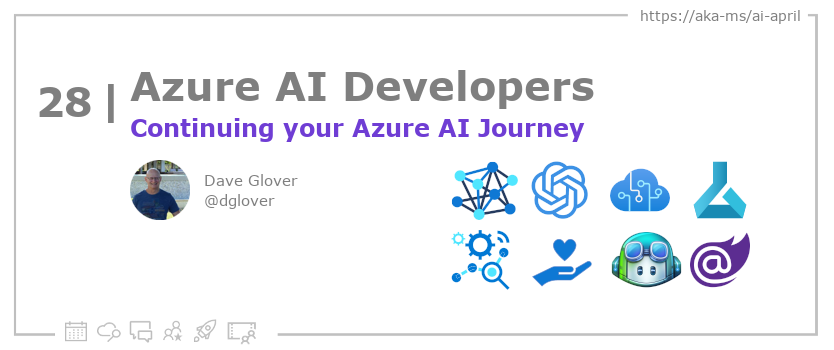
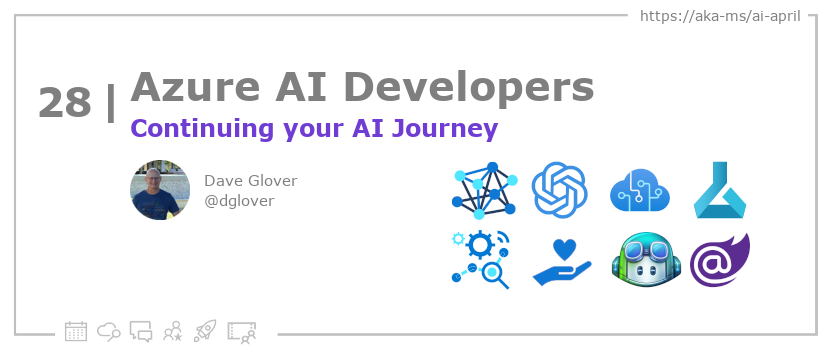
docs

Changed region(s): [[0.4365, 0.3429, 0.717, 0.4]]

diff --git a/website/2023-aia/2023-04-11-build-chatgpt/index.md b/website/2023-aia/2023-04-11-build-chatgpt/index.md
@@ -15,11 +15,11 @@ description: "Build your own ChatGPT with Azure Cognitive Search + Azure OpenAI 
 
 <head>  
 
-  <link rel="canonical" href="https://techcommunity.microsoft.com/t5/ai-applied-ai-blog/revolutionize-your-enterprise-data-with-chatgpt-next-gen-apps-w/ba-p/3762087"  />
+  <link rel="canonical" href="https://techcommunity.microsoft.com/t5/ai-applied-ai-blog/revolutionize-your-enterprise-data-with-chatgpt-next-gen-apps-w/ba-p/3762087?WT.mc_id=aiml-89446-dglover"  />
 
 </head>
 
-- 👓 [Read today's article](https://techcommunity.microsoft.com/t5/ai-applied-ai-blog/revolutionize-your-enterprise-data-with-chatgpt-next-gen-apps-w/ba-p/3762087)
+- 👓 [Read today's article](https://techcommunity.microsoft.com/t5/ai-applied-ai-blog/revolutionize-your-enterprise-data-with-chatgpt-next-gen-apps-w/ba-p/3762087?WT.mc_id=aiml-89446-dglover)
 - 📬 [Sign up for the Microsoft AI and Machine Learning Newsletter](https://aka.ms/azure-ai-dev-newsletter)
 <!-- - 📰 [Subscribe to the #30DaysOfAzureAI RSS feed](https://azureaidevs.github.io/hub/2023-aia/rss.xml) -->
 - 🌤 [Continue the Azure AI Cloud Skills Challenge](https://aka.ms/30-days-of-azure-ai-challenge)
@@ -75,11 +75,11 @@ Add or update a list relevant references here. These could be links to other blo
 
 ## 📚 References
 
+- [Quickstart: Get started generating text using Azure OpenAI Service](https://learn.microsoft.com/azure/cognitive-services/openai/quickstart?pivots=programming-language-studio&WT.mc_id=aiml-89446-dglover)
 - [Learn Module: Introduction to Azure OpenAI Service](https://learn.microsoft.com/training/modules/explore-azure-openai?WT.mc_id=aiml-89446-dglover)
 - [Learn Module: Azure Cognitive Search](https://learn.microsoft.com/training/browse/?expanded=azure&roles=ai-engineer&products=azure-cognitive-search&WT.mc_id=aiml-89446-dglover)
-- [Case Study: Is data necessary for bootstrapping of AI models?](https://startups.microsoft.com/blog/bootstrapping-ai-models-pointers?WT.mc_id=aiml-89446-dglover)
-- [Case Study: Metaverse training and AI-driven onboarding](https://startups.microsoft.com/blog/metaverse-training-stellarx?WT.mc_id=aiml-89446-dglover)
 
+<!--  -->
 
 <!-- README
 The following is the body of the post. It should be an overview of the post that you are referencing.
@@ -96,7 +96,7 @@ In today's post, distinguished engineer Pablo Castro covers two questions we hea
 
 ## Building your own ChatGPT
 
-Read the full article that addresses the question [“How do I build something like ChatGPT that uses my own data as the basis for its responses?”](https://techcommunity.microsoft.com/t5/ai-applied-ai-blog/revolutionize-your-enterprise-data-with-chatgpt-next-gen-apps-w/ba-p/3762087)
+Read the full article that addresses the question [“How do I build something like ChatGPT that uses my own data as the basis for its responses?”](https://techcommunity.microsoft.com/t5/ai-applied-ai-blog/revolutionize-your-enterprise-data-with-chatgpt-next-gen-apps-w/ba-p/3762087?WT.mc_id=aiml-89446-dglover)
 
 <!-- In summary, the combination of Azure Cognitive Search and Azure OpenAI Service yields an effective solution for this scenario. 
 It integrates the enterprise-grade characteristics of Azure, the ability of Cognitive Search to index, understand and retrieve the right pieces of your own data across large knowledge bases, 
@@ -190,7 +190,7 @@ for a walkthrough.
 
 ## 👓 Read today's article
 
-Today's [article](https://techcommunity.microsoft.com/t5/ai-applied-ai-blog/revolutionize-your-enterprise-data-with-chatgpt-next-gen-apps-w/ba-p/3762087).
+Today's [article](https://techcommunity.microsoft.com/t5/ai-applied-ai-blog/revolutionize-your-enterprise-data-with-chatgpt-next-gen-apps-w/ba-p/3762087?WT.mc_id=aiml-89446-dglover).
 
 
 ## 🙋🏾♂ Questions?

diff --git a/website/2023-aia/2023-04-05-copilot-form-recognizer/index.md b/website/2023-aia/2023-04-05-copilot-form-recognizer/index.md
@@ -1,6 +1,6 @@
 ---
 slug: "day4"
-title: "4. 🏁Build an AI receipts app with Copilot"
+title: "4. 🏁Build a receipts app with Copilot"
 authors: ['Ruth']
 draft: false
 hide_table_of_contents: false
@@ -24,7 +24,7 @@ description: "Learn how to use Copilot to build an intelligent receipts app powe
 <!-- - 📰 [Subscribe to the #30DaysOfAzureAI RSS feed](https://azureaidevs.github.io/hub/2023-aia/rss.xml) -->
 - 🌤 [Continue the Azure AI Cloud Skills Challenge](https://aka.ms/30-days-of-azure-ai-challenge)
 - 🏫 [Bookmark the Azure AI Technical Community](https://techcommunity.microsoft.com/t5/artificial-intelligence-and/ct-p/AI)
-- 🙋🏾♂ [Ask a question about this post on GitHub Discussions](https://github.com/AzureAiDevs/hub/discussions/categories/4-build-an-ai-receipts-app-with-copilot)
+- 🙋🏾♂ [Ask a question about this post on GitHub Discussions](https://github.com/AzureAiDevs/hub/discussions/categories/4-build-a-receipts-app-with-copilot)
 - 💡 [Suggest a topic for a future post](https://github.com/AzureAiDevs/hub/discussions/categories/call-for-content)
 
 
@@ -71,11 +71,12 @@ Add or update a list relevant references here. These could be links to other blo
 ## 📚 References
 
 - [What is Azure Form Recognizer?](https://learn.microsoft.com/azure/applied-ai-services/form-recognizer/overview?view=form-recog-3.0.0&WT.mc_id=aiml-89446-dglover)
-- [Learn Module: Learn about Azure Cognitive Services](https://learn.microsoft.com/training/browse/?products=azure-cognitive-services&WT.mc_id=aiml-89446-dglover)
+<!-- - [Learn Module: Learn about Azure Cognitive Services](https://learn.microsoft.com/training/browse/?products=azure-cognitive-services&WT.mc_id=aiml-89446-dglover) -->
 - [Learn Module: Introduction to Form Recognizer](https://learn.microsoft.com/training/modules/intro-to-form-recognizer?WT.mc_id=aiml-89446-dglover)
 - [Introducing GitHub Copilot: your AI pair programmer](https://github.blog/2021-06-29-introducing-github-copilot-ai-pair-programmer?WT.mc_id=aiml-89446-dglover)
 - [Case Study: How Qard went from idea to MVP](https://startups.microsoft.com/blog/qard-idea-to-mvp?WT.mc_id=aiml-89446-dglover)
 
+<!--  -->
 
 <!-- README
 The following is the body of the post. It should be an overview of the post that you are referencing.
@@ -96,7 +97,7 @@ Today's [article](https://techcommunity.microsoft.com/t5/ai-cognitive-services-b
 
 ## 🙋🏾♂ Questions?
 
-[Remember, you can ask a question about this post on GitHub Discussions](https://github.com/AzureAiDevs/Discussions/discussions/categories/4-build-an-ai-receipts-app-with-copilot)
+[Remember, you can ask a question about this post on GitHub Discussions](https://github.com/AzureAiDevs/Discussions/discussions/categories/4-build-a-receipts-app-with-copilot)
 
 ## 📍 30 days roadmap
 

diff --git a/website/2023-aia/2023-04-30-recap-final/index.md b/website/2023-aia/2023-04-30-recap-final/index.md
@@ -1,6 +1,6 @@
 ---
 slug: "day28"
-title: "28. 🏭Continuing your Azure AI Journey✨"
+title: "28. 🏭Continuing your AI Journey✨"
 authors: ['Dave']
 draft: false
 hide_table_of_contents: false
@@ -24,7 +24,7 @@ description: "Continuing your Azure AI Journey https://azureaidevs.github.io/hub
 <!-- - 📰 [Subscribe to the #30DaysOfAzureAI RSS feed](https://azureaidevs.github.io/hub/2023-aia/rss.xml) -->
 - 🌤 [Continue the Azure AI Cloud Skills Challenge](https://aka.ms/30-days-of-azure-ai-challenge)
 - 🏫 [Bookmark the Azure AI Technical Community](https://techcommunity.microsoft.com/t5/artificial-intelligence-and/ct-p/AI)
-- 🙋🏾♂ [Ask a question about this post on GitHub Discussions](https://github.com/AzureAiDevs/hub/discussions/categories/28-continuing-your-azure-ai-journey✨)
+- 🙋🏾♂ [Ask a question about this post on GitHub Discussions](https://github.com/AzureAiDevs/hub/discussions/categories/28-continuing-your-ai-journey✨)
 - 💡 [Suggest a topic for a future post](https://github.com/AzureAiDevs/hub/discussions/categories/call-for-content)
 
 
@@ -66,6 +66,14 @@ Add or update a list relevant references here. These could be links to other blo
 -->
 
 
+## 📚 References
+
+- [Azure Personalizer Cognitive Service](https://azure.microsoft.com/products/cognitive-services/personalizer?WT.mc_id=aiml-89446-dglover)
+- [Azure Cognitive Services](https://azure.microsoft.com/en-au/products/cognitive-services/#overview?WT.mc_id=aiml-89446-dglover)
+- [Azure Cognitive Services APIs](https://azure.microsoft.com/products/cognitive-services/#api?WT.mc_id=aiml-89446-dglover)
+- [Case Study: VideoKen is improving video discovery and engagement using AI](https://startups.microsoft.com/blog/launchwithai-videoken?WT.mc_id=aiml-89446-dglover)
+
+<!--  -->
 
 <!-- README
 The following is the body of the post. It should be an overview of the post that you are referencing.
@@ -79,7 +87,7 @@ See the Learn More section, if you supplied a canonical link, then will be displ
 
 ## 🙋🏾♂ Questions?
 
-[Remember, you can ask a question about this post on GitHub Discussions](https://github.com/AzureAiDevs/Discussions/discussions/categories/28-continuing-your-azure-ai-journey✨)
+[Remember, you can ask a question about this post on GitHub Discussions](https://github.com/AzureAiDevs/Discussions/discussions/categories/28-continuing-your-ai-journey✨)
 
 ## 📍 30 days roadmap
 

diff --git a/website/2023-aia/2023-04-16-recap-week-two/index.md b/website/2023-aia/2023-04-16-recap-week-two/index.md
@@ -2,7 +2,7 @@
 slug: "day15"
 title: "15. 🧑💻Recap: Azure AI App Developers✨"
 authors: ['Dave']
-draft: true
+draft: false
 hide_table_of_contents: false
 toc_min_heading_level: 2
 toc_max_heading_level: 3
@@ -69,9 +69,8 @@ Add or update a list relevant references here. These could be links to other blo
 ## 📚 References
 
 - [Learn Module: Introduction to Azure Machine Learning](https://learn.microsoft.com/training/modules/intro-to-azure-ml?WT.mc_id=aiml-89446-dglover)
-- [Learn Module: Introduction to Azure OpenAI Service](https://learn.microsoft.com/training/modules/explore-azure-openai?WT.mc_id=aiml-89446-dglover)
 - [Quickstart: Get started generating text using Azure OpenAI Service](https://learn.microsoft.com/azure/cognitive-services/openai/quickstart?pivots=programming-language-studio&WT.mc_id=aiml-89446-dglover)
-- [Azure Cognitive Services APIs](https://azure.microsoft.com/products/cognitive-services/#api?WT.mc_id=aiml-89446-dglover)
+- [Azure Cognitive Services APIs](https://azure.microsoft.com/products/cognitive-services/api?WT.mc_id=aiml-89446-dglover)
 - [Azure OpenAI Service](https://azure.microsoft.com/products/cognitive-services/openai-service?WT.mc_id=aiml-89446-dglover)
 - [ONNX and Azure Machine Learning: Create and accelerate ML models](https://learn.microsoft.com/azure/machine-learning/concept-onnx?WT.mc_id=aiml-89446-dglover)
 - [Open Neural Network Exchange (ONNX) Open Standard](https://onnx.ai/index.html)
@@ -80,6 +79,7 @@ Add or update a list relevant references here. These could be links to other blo
 - [Build beautiful, web apps with Blazor](https://dotnet.microsoft.com/apps/aspnet/web-apps/blazor)
 - [Create a machine learning model for offline use on a Windows device](https://learn.microsoft.com/training/modules/add-machine-learning-to-uwp-app?WT.mc_id=aiml-89446-dglover)
 
+<!--  -->
 
 <!-- README
 The following is the body of the post. It should be an overview of the post that you are referencing.

diff --git a/website/2023-aia/2023-04-10-azure-cog-openai-sdks/index.md b/website/2023-aia/2023-04-10-azure-cog-openai-sdks/index.md
@@ -72,12 +72,12 @@ Add or update a list relevant references here. These could be links to other blo
 
 ## 📚 References
 
-- [Quickstart: Get started generating text using Azure OpenAI Service](https://learn.microsoft.com/azure/cognitive-services/openai/quickstart?pivots=programming-language-studio&WT.mc_id=aiml-89446-dglover)
-- [Learn Module: Introduction to Azure OpenAI Service](https://learn.microsoft.com/training/modules/explore-azure-openai&WT.mc_id=aiml-89446-dglover)
+- [Learn Module: Introduction to Azure OpenAI Service](https://learn.microsoft.com/en-us/training/modules/explore-azure-openai/?WT.mc_id=aiml-89446-dglover)
 - [Learn Module: Learn about Azure Cognitive Services](https://learn.microsoft.com/training/browse/?products=azure-cognitive-services&WT.mc_id=aiml-89446-dglover)
-- [Case Study: CarMax uses car research tools powered by Azure OpenAI Service](https://customers.microsoft.com/en-us/story/1501304071775762777-carmax-retailer-azure-openai-service)
+- [Case Study: CarMax uses car research tools powered by Azure OpenAI Service](https://customers.microsoft.com/en-us/story/1501304071775762777-carmax-retailer-azure-openai-service&WT.mc_id=aiml-89446-dglover)
 - [Case Study: Captioning and Call Center Transcription using Speech AI](https://github.com/Azure-Samples/cognitive-services-speech-sdk/tree/master/scenarios)
 
+<!--  -->
 
 <!-- README
 The following is the body of the post. It should be an overview of the post that you are referencing.

diff --git a/website/2023-aia/2023-04-04-openai-playground/index.md b/website/2023-aia/2023-04-04-openai-playground/index.md
@@ -2,7 +2,7 @@
 slug: "day3"
 title: "3. 🏁Explore the Azure OpenAI Playground"
 authors: ['Valentina']
-draft: true
+draft: false
 hide_table_of_contents: false
 toc_min_heading_level: 2
 toc_max_heading_level: 3
@@ -71,9 +71,11 @@ Add or update a list relevant references here. These could be links to other blo
 ## 📚 References
 
 - [Azure OpenAI Service](https://azure.microsoft.com/products/cognitive-services/openai-service?WT.mc_id=aiml-89446-dglover)
+- [Quickstart: Get started generating text using Azure OpenAI Service](https://learn.microsoft.com/azure/cognitive-services/openai/quickstart?pivots=programming-language-studio&WT.mc_id=aiml-89446-dglover)
 - [Learn Module: Introduction to Azure OpenAI Service](https://learn.microsoft.com/training/modules/explore-azure-openai?WT.mc_id=aiml-89446-dglover)
 - [Case Study: Azure OpenAI Service powers the next generation of startups](https://startups.microsoft.com/blog/azure-openai-service-for-startups?WT.mc_id=aiml-89446-dglover)
 
+<!--  -->
 
 <!-- README
 The following is the body of the post. It should be an overview of the post that you are referencing.

diff --git a/website/2023-aia/2023-04-28-stable-diffusion/index.md b/website/2023-aia/2023-04-28-stable-diffusion/index.md
@@ -2,7 +2,7 @@
 slug: "day26"
 title: "26. 🏭Stable Diffusion on Azure ML"
 authors: ['Vlad']
-draft: true
+draft: false
 hide_table_of_contents: false
 toc_min_heading_level: 2
 toc_max_heading_level: 3
@@ -71,8 +71,10 @@ Add or update a list relevant references here. These could be links to other blo
 ## 📚 References
 
 - [Learn Module: Introduction to Azure Machine Learning](https://learn.microsoft.com/training/modules/intro-to-azure-ml?WT.mc_id=aiml-89446-dglover)
-- [What is Azure Machine Learning?](https://learn.microsoft.com/azure/machine-learning/overview-what-is-azure-machine-learning?WT.mc_id=aiml-89446-dglover)
+- [What is Azure Machine Learning?](https://learn.microsoft.com/azur
+e/machine-learning/overview-what-is-azure-machine-learning?WT.mc_id=aiml-89446-dglover)
 
+<!--  -->
 
 <!-- README
 The following is the body of the post. It should be an overview of the post that you are referencing.

diff --git a/website/2023-aia/2023-04-20-rai-part-1/index.md b/website/2023-aia/2023-04-20-rai-part-1/index.md
@@ -2,7 +2,7 @@
 slug: "day19"
 title: "19. 🧑🏽🔬Debug models w/ Responsible AI"
 authors: ['Ruth']
-draft: true
+draft: false
 hide_table_of_contents: false
 toc_min_heading_level: 2
 toc_max_heading_level: 3
@@ -73,6 +73,7 @@ Add or update a list relevant references here. These could be links to other blo
 - [Microsoft's approach to using AI responsibly](https://news.microsoft.com/source/features/ai/microsoft-approach-to-ai/#using-ai-responsibly?WT.mc_id=aiml-89446-dglover)
 - [Meeting the AI moment: advancing the future through responsible AI](https://blogs.microsoft.com/on-the-issues/2023/02/02/responsible-ai-chatgpt-artificial-intelligence?WT.mc_id=aiml-89446-dglover)
 
+<!--  -->
 
 <!-- README
 The following is the body of the post. It should be an overview of the post that you are referencing.

diff --git a/website/2023-aia/2023-04-23-recap-week-three/index.md b/website/2023-aia/2023-04-23-recap-week-three/index.md
@@ -2,7 +2,7 @@
 slug: "day21"
 title: "21. 🧑🏽🔬Recap: Azure ML Week✨"
 authors: ['Dave']
-draft: true
+draft: false
 hide_table_of_contents: false
 toc_min_heading_level: 2
 toc_max_heading_level: 3
@@ -76,6 +76,7 @@ Add or update a list relevant references here. These could be links to other blo
 - [Meeting the AI moment: advancing the future through responsible AI](https://blogs.microsoft.com/on-the-issues/2023/02/02/responsible-ai-chatgpt-artificial-intelligence?WT.mc_id=aiml-89446-dglover)
 - [Microsoft's approach to using AI responsibly](https://news.microsoft.com/source/features/ai/microsoft-approach-to-ai/#using-ai-responsibly?WT.mc_id=aiml-89446-dglover)
 
+<!--  -->
 
 <!-- README
 The following is the body of the post. It should be an overview of the post that you are referencing.

diff --git a/website/2023-aia/2023-04-07-rai-mission/index.md b/website/2023-aia/2023-04-07-rai-mission/index.md
@@ -2,7 +2,7 @@
 slug: "day6"
 title: "6. 🏁The Mission of Responsible AI"
 authors: ['Ruth']
-draft: true
+draft: false
 hide_table_of_contents: false
 toc_min_heading_level: 2
 toc_max_heading_level: 3
@@ -73,6 +73,7 @@ Add or update a list relevant references here. These could be links to other blo
 - [Microsoft's approach to using AI responsibly](https://news.microsoft.com/source/features/ai/microsoft-approach-to-ai/#using-ai-responsibly?WT.mc_id=aiml-89446-dglover)
 - [Meeting the AI moment: advancing the future through responsible AI](https://blogs.microsoft.com/on-the-issues/2023/02/02/responsible-ai-chatgpt-artificial-intelligence?WT.mc_id=aiml-89446-dglover)
 
+<!--  -->
 
 <!-- README
 The following is the body of the post. It should be an overview of the post that you are referencing.

diff --git a/website/2023-aia/2023-04-27-patient-rego-workshop/index.md b/website/2023-aia/2023-04-27-patient-rego-workshop/index.md
@@ -2,7 +2,7 @@
 slug: "day25"
 title: "25. 🏭Build a Patient Registration App"
 authors: ['Dave']
-draft: true
+draft: false
 hide_table_of_contents: false
 toc_min_heading_level: 2
 toc_max_heading_level: 3
@@ -74,6 +74,7 @@ Add or update a list relevant references here. These could be links to other blo
 - [Case Study: Powering Speech-to-Text AI that iterates at the speed of business](https://startups.microsoft.com/blog/powering-speech-to-text-ai?WT.mc_id=aiml-89446-dglover)
 - [Case study: Duolingo makes learning language fun with help from AI](https://startups.microsoft.com/blog/duolingo-makes-learning-language-fun-with-help-from-ai?WT.mc_id=aiml-89446-dglover)
 
+<!--  -->
 
 <!-- README
 The following is the body of the post. It should be an overview of the post that you are referencing.

diff --git a/website/2023-aia/2023-04-12-onnx-dotnet/index.md b/website/2023-aia/2023-04-12-onnx-dotnet/index.md
@@ -2,7 +2,7 @@
 slug: "day11"
 title: "11. 🧑💻Cross-Platform AI with ONNX and .NET"
 authors: ['Henk', 'Bea']
-draft: true
+draft: false
 hide_table_of_contents: false
 toc_min_heading_level: 2
 toc_max_heading_level: 3
@@ -74,6 +74,7 @@ Add or update a list relevant references here. These could be links to other blo
 - [ONNX and Azure Machine Learning: Create and accelerate ML models](https://learn.microsoft.com/azure/machine-learning/concept-onnx?WT.mc_id=aiml-89446-dglover)
 - [Create a machine learning model for offline use on a Windows device](https://learn.microsoft.com/training/modules/add-machine-learning-to-uwp-app?WT.mc_id=aiml-89446-dglover)
 
+<!--  -->
 
 <!-- README
 The following is the body of the post. It should be an overview of the post that you are referencing.
